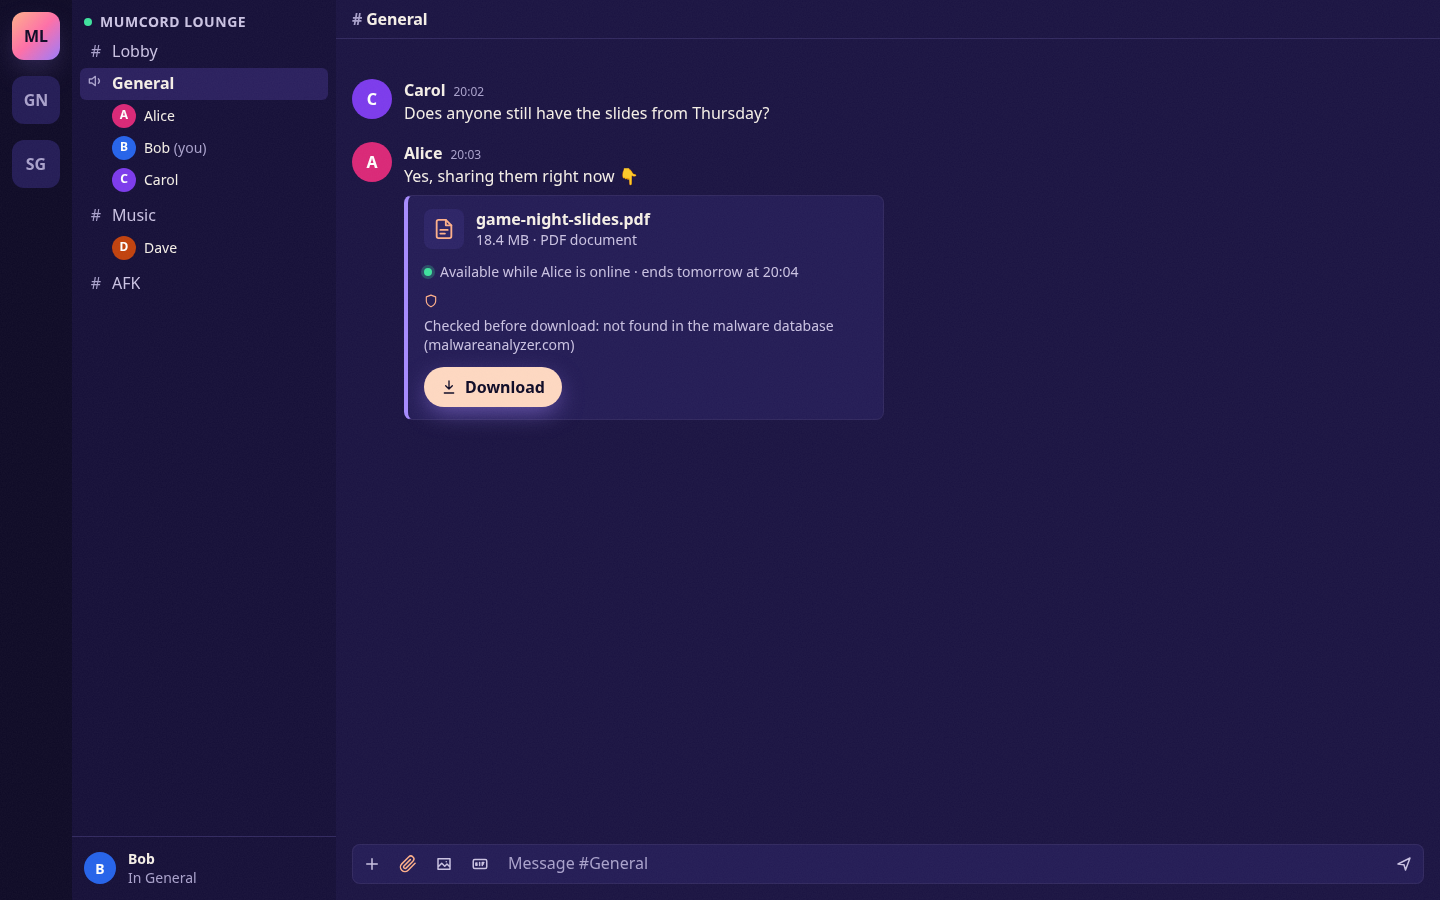
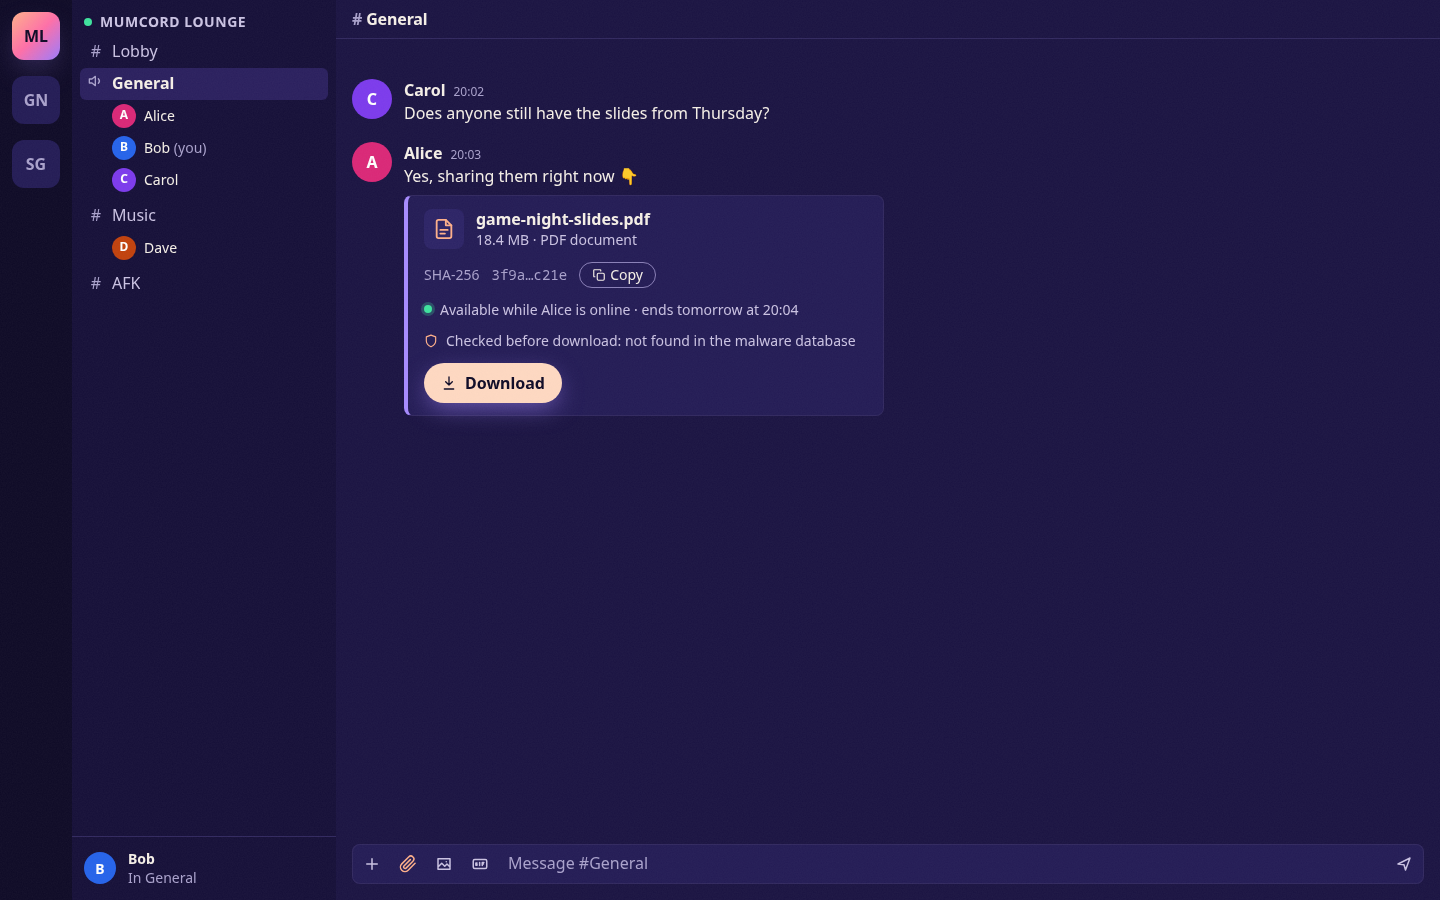
docs: show the SHA-256 checksum with a copy button on Epic 4.1 file cards

Changed region(s): [[0.2812, 0.3422, 0.5938, 0.4667], [0.2812, 0.28, 0.5625, 0.3111]]

diff --git a/docs/mockups/epic-4.1/04-done.html b/docs/mockups/epic-4.1/04-done.html
@@ -44,8 +44,9 @@
     <div class="audio-card__text"><p class="audio-card__name">game-night-slides.pdf</p><p class="audio-card__facts">18.4 MB · PDF document</p></div>
   </div>
   
-  <p class="file-card__status"><span class="file-card__ok">✓ Downloaded</span><span class="file-card__ok">✓ Hash matches the offer</span><span class="mock-muted">Saved to Downloads/Mumcord</span></p>
-  <p class="file-card__status file-card__scan"><svg viewBox="0 0 24 24" width="14" height="14" aria-hidden="true" fill="none" stroke="currentColor" stroke-width="2" stroke-linecap="round" stroke-linejoin="round"><path d="M12 22s8-4 8-10V5l-8-3-8 3v7c0 6 8 10 8 10z"/></svg><span>Checked again after download: not found in the malware database (malwareanalyzer.com)</span></p>
[1 lines of base64/hex data omitted]
+  <p class="file-card__status"><span class="file-card__ok">✓ Downloaded</span><span class="file-card__ok">✓ Matches the offer</span><span class="mock-muted">Saved to Downloads/Mumcord</span></p>
+  <p class="file-card__status file-card__scan"><svg viewBox="0 0 24 24" width="14" height="14" aria-hidden="true" fill="none" stroke="currentColor" stroke-width="2" stroke-linecap="round" stroke-linejoin="round"><path d="M12 22s8-4 8-10V5l-8-3-8 3v7c0 6 8 10 8 10z"/></svg><span>Checked again: not found in the malware database</span></p>
   <div class="file-card__actions"><button type="button" class="media-pill file-card__button"><svg viewBox="0 0 24 24" width="16" height="16" aria-hidden="true" fill="none" stroke="currentColor" stroke-width="2" stroke-linecap="round" stroke-linejoin="round"><path d="M3 7a2 2 0 0 1 2-2h4l2 2h8a2 2 0 0 1 2 2v8a2 2 0 0 1-2 2H5a2 2 0 0 1-2-2z"/></svg><span>Open folder</span></button><button type="button" class="media-pill file-card__button"><svg viewBox="0 0 24 24" width="16" height="16" aria-hidden="true" fill="none" stroke="currentColor" stroke-width="2" stroke-linecap="round" stroke-linejoin="round"><path d="M14 2H6a2 2 0 0 0-2 2v16a2 2 0 0 0 2 2h12a2 2 0 0 0 2-2V8z"/><path d="M14 2v6h6M8 13h8M8 17h5"/></svg><span>Open</span></button></div>
 </div></div></div></div></li></ul></div></div>
     <form class="chat-composer" aria-label="Message composer">

diff --git a/docs/mockups/epic-4.1/02-offer-card.html b/docs/mockups/epic-4.1/02-offer-card.html
@@ -44,8 +44,9 @@
     <div class="audio-card__text"><p class="audio-card__name">game-night-slides.pdf</p><p class="audio-card__facts">18.4 MB · PDF document</p></div>
   </div>
   
[1 lines of base64/hex data omitted]
   <p class="file-card__status"><span class="file-card__dot" data-online></span>Available while Alice is online · ends tomorrow at 20:04</p>
-  <p class="file-card__status file-card__scan"><svg viewBox="0 0 24 24" width="14" height="14" aria-hidden="true" fill="none" stroke="currentColor" stroke-width="2" stroke-linecap="round" stroke-linejoin="round"><path d="M12 22s8-4 8-10V5l-8-3-8 3v7c0 6 8 10 8 10z"/></svg><span>Checked before download: not found in the malware database (malwareanalyzer.com)</span></p>
+  <p class="file-card__status file-card__scan"><svg viewBox="0 0 24 24" width="14" height="14" aria-hidden="true" fill="none" stroke="currentColor" stroke-width="2" stroke-linecap="round" stroke-linejoin="round"><path d="M12 22s8-4 8-10V5l-8-3-8 3v7c0 6 8 10 8 10z"/></svg><span>Checked before download: not found in the malware database</span></p>
   <div class="file-card__actions"><button type="button" class="button button--primary file-card__button"><svg viewBox="0 0 24 24" width="16" height="16" aria-hidden="true" fill="none" stroke="currentColor" stroke-width="2" stroke-linecap="round" stroke-linejoin="round"><path d="M12 3v12M7 10l5 5 5-5M5 21h14"/></svg><span>Download</span></button></div>
 </div></div></div></div></li></ul></div></div>
     <form class="chat-composer" aria-label="Message composer">

diff --git a/docs/mockups/epic-4.1/02b-offer-malware.html b/docs/mockups/epic-4.1/02b-offer-malware.html
@@ -44,6 +44,7 @@
     <div class="audio-card__text"><p class="audio-card__name">game-night-slides.pdf</p><p class="audio-card__facts">18.4 MB · PDF document</p></div>
   </div>
   
[1 lines of base64/hex data omitted]
   <p class="file-card__status"><span class="file-card__dot" data-online></span>Available while Alice is online · ends tomorrow at 20:04</p>
   <div class="malware-alert" role="alert"><span class="malware-alert__icon"><svg viewBox="0 0 24 24" width="22" height="22" aria-hidden="true" fill="none" stroke="currentColor" stroke-width="2" stroke-linecap="round" stroke-linejoin="round"><path d="M10.3 3.9 1.8 18a2 2 0 0 0 1.7 3h17a2 2 0 0 0 1.7-3L13.7 3.9a2 2 0 0 0-3.4 0zM12 9v4M12 17h.01"/></svg></span><div><p class="malware-alert__title">Known malware – download blocked</p><p>The malware database knows this exact file (checked from the offer's fingerprint, before downloading anything). Don't download it.</p></div></div>
   <div class="file-card__actions"><button type="button" class="button button--primary file-card__button" disabled aria-disabled="true"><svg viewBox="0 0 24 24" width="16" height="16" aria-hidden="true" fill="none" stroke="currentColor" stroke-width="2" stroke-linecap="round" stroke-linejoin="round"><path d="M12 3v12M7 10l5 5 5-5M5 21h14"/></svg><span>Download</span></button></div>

diff --git a/docs/mockups/epic-4.1/05-sender-card.html b/docs/mockups/epic-4.1/05-sender-card.html
@@ -47,6 +47,7 @@
   <p><span class="file-card__ok"><svg viewBox="0 0 24 24" width="14" height="14" aria-hidden="true" fill="none" stroke="currentColor" stroke-width="2" stroke-linecap="round" stroke-linejoin="round"><path d="M5 12l5 5 9-10"/></svg>Downloaded by Bob and Carol</span></p>
   <p><svg viewBox="0 0 24 24" width="14" height="14" aria-hidden="true" fill="none" stroke="currentColor" stroke-width="2" stroke-linecap="round" stroke-linejoin="round"><path d="M12 3v12M7 10l5 5 5-5M5 21h14"/></svg>1 download in progress · Dave 40 %</p>
 </div>
[1 lines of base64/hex data omitted]
   <p class="file-card__status"><span class="file-card__dot" data-online></span>Sharing while you are online · ends tomorrow at 20:04</p>
   <div class="file-card__actions"><button type="button" class="media-pill file-card__button file-card__button--danger"><svg viewBox="0 0 24 24" width="16" height="16" aria-hidden="true" fill="none" stroke="currentColor" stroke-width="2" stroke-linecap="round" stroke-linejoin="round"><rect x="6" y="6" width="12" height="12" rx="2"/></svg><span>Stop sharing</span></button></div>
 </div></div></div></div></li><li class="chat-message chat-message--start"><div class="chat-message__row">

diff --git a/docs/mockups/epic-4.1/13-no-relay.html b/docs/mockups/epic-4.1/13-no-relay.html
@@ -44,6 +44,7 @@
     <div class="audio-card__text"><p class="audio-card__name">game-night-slides.pdf</p><p class="audio-card__facts">18.4 MB · PDF document</p></div>
   </div>
   
[1 lines of base64/hex data omitted]
   <p class="file-card__status"><span class="file-card__dot" data-online></span>Available while Alice is online · ends tomorrow at 20:04</p>
   <p id="norelay" class="file-card__status file-card__scan"><svg viewBox="0 0 24 24" width="14" height="14" aria-hidden="true" fill="none" stroke="currentColor" stroke-width="2" stroke-linecap="round" stroke-linejoin="round"><circle cx="12" cy="12" r="10"/><path d="M4.9 4.9l14.2 14.2"/></svg><span>This server has no relay, so file sharing isn't available.</span></p>
   <div class="file-card__actions"><button type="button" class="button button--primary file-card__button" disabled aria-disabled="true" aria-describedby="norelay"><svg viewBox="0 0 24 24" width="16" height="16" aria-hidden="true" fill="none" stroke="currentColor" stroke-width="2" stroke-linecap="round" stroke-linejoin="round"><path d="M12 3v12M7 10l5 5 5-5M5 21h14"/></svg><span>Download</span></button></div>

diff --git a/docs/mockups/epic-4.1/mock.css b/docs/mockups/epic-4.1/mock.css
@@ -103,3 +103,10 @@ body { overflow: hidden; }
 .mock-switch-default { display: block; margin-top: var(--space-1); }
 /* The dark theme's danger red is light, so white text on it would be hard to read. */
 :root[data-theme="dark"] .file-card__button--delete, :root[data-theme="dark"] .malware-alert__icon { color: #2a0a14; }
+
+/* Checksum line on file cards: short monospace form, full value for hover, focus and screen readers. */
+.file-card__hash { display: flex; flex-wrap: wrap; align-items: center; gap: var(--space-2); font-size: var(--font-size-sm); color: var(--color-text-muted, inherit); }
+.file-card__hash-value { font-family: ui-monospace, "JetBrains Mono", monospace; word-break: break-all; border-radius: var(--radius-sm); }
+.file-card__hash-value:focus-visible, .file-card__copy:focus-visible { outline: 2px solid var(--color-accent, currentColor); outline-offset: 2px; }
+.file-card__copy { display: inline-flex; align-items: center; gap: var(--space-1); padding-block: 2px; }
+.mock-sr { position: absolute; width: 1px; height: 1px; overflow: hidden; clip-path: inset(50%); white-space: nowrap; }
